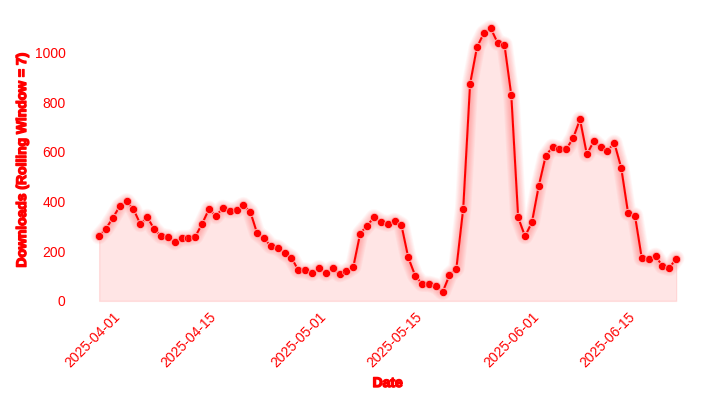
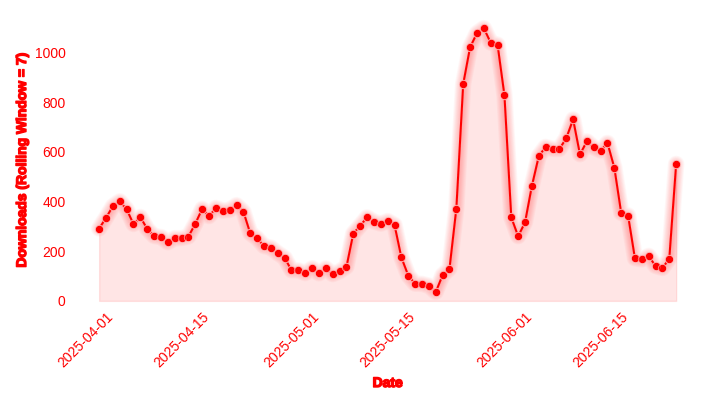
Updating README.md image automatically [skip ci]

diff --git a/README.md b/README.md
@@ -18,6 +18,6 @@
 
 ### Achievements
 
-Authored [boto3-refresh-session](https://github.com/michaelthomasletts/boto3-refresh-session) on PyPI (Total Downloads:  63,266 :tada:)
+Authored [boto3-refresh-session](https://github.com/michaelthomasletts/boto3-refresh-session) on PyPI (Total Downloads:  66,046 :tada:)
 
 ![Downloads](https://raw.githubusercontent.com/michaelthomasletts/michaelthomasletts/refs/heads/main/downloads.png)
